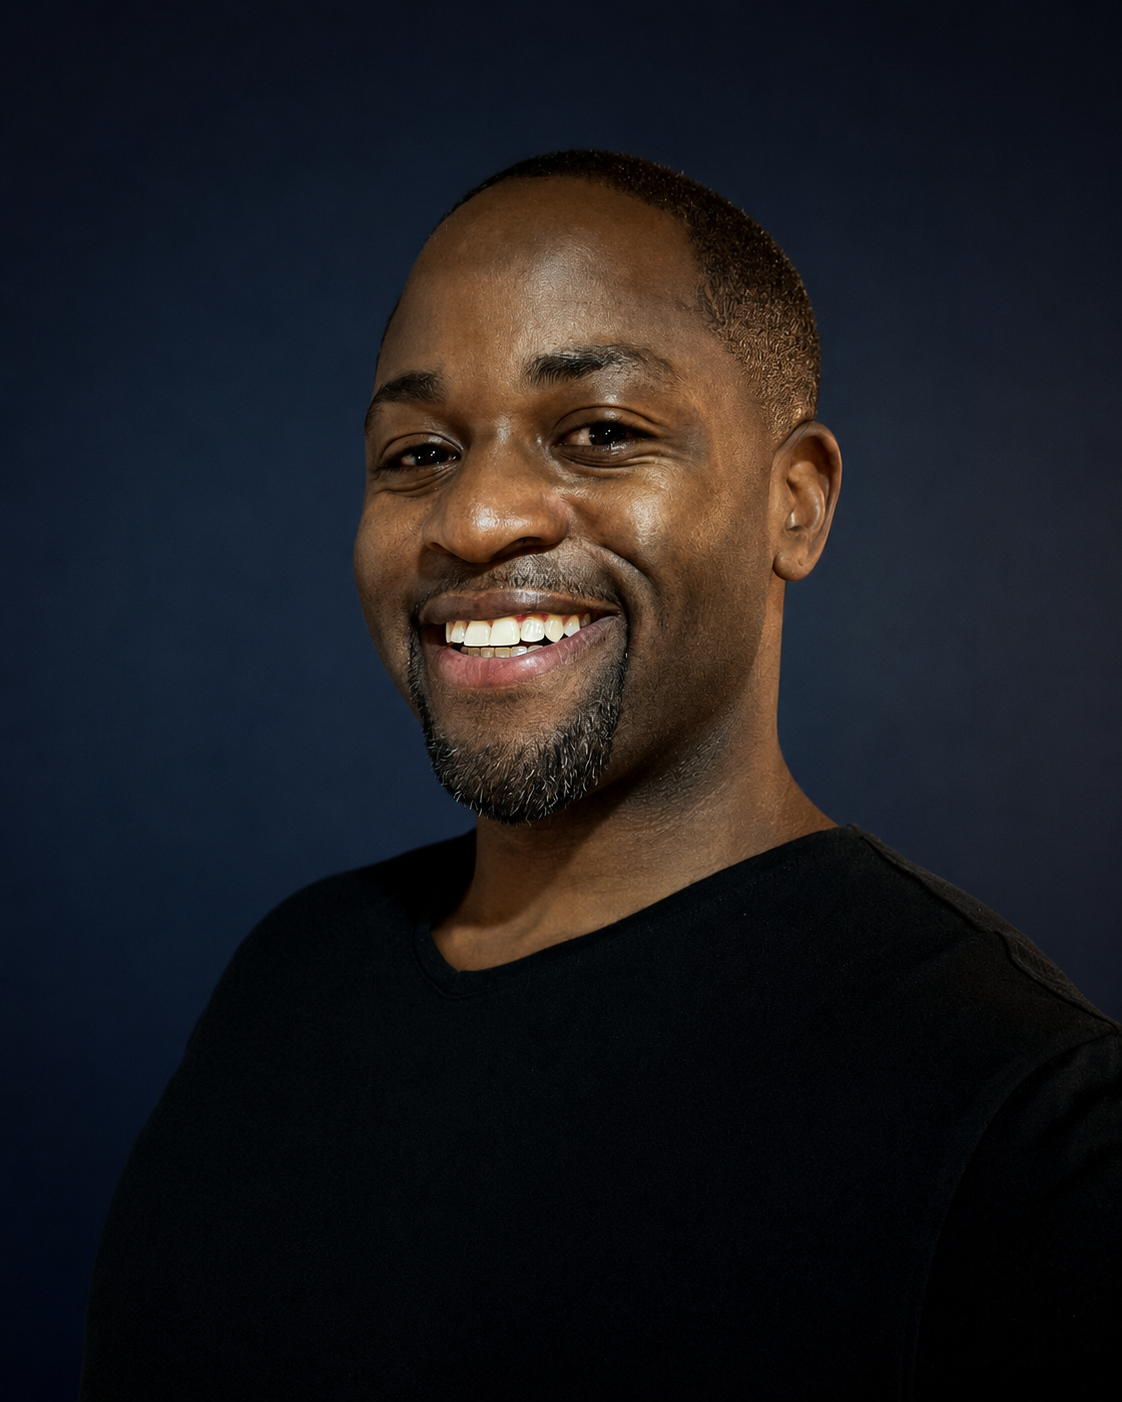
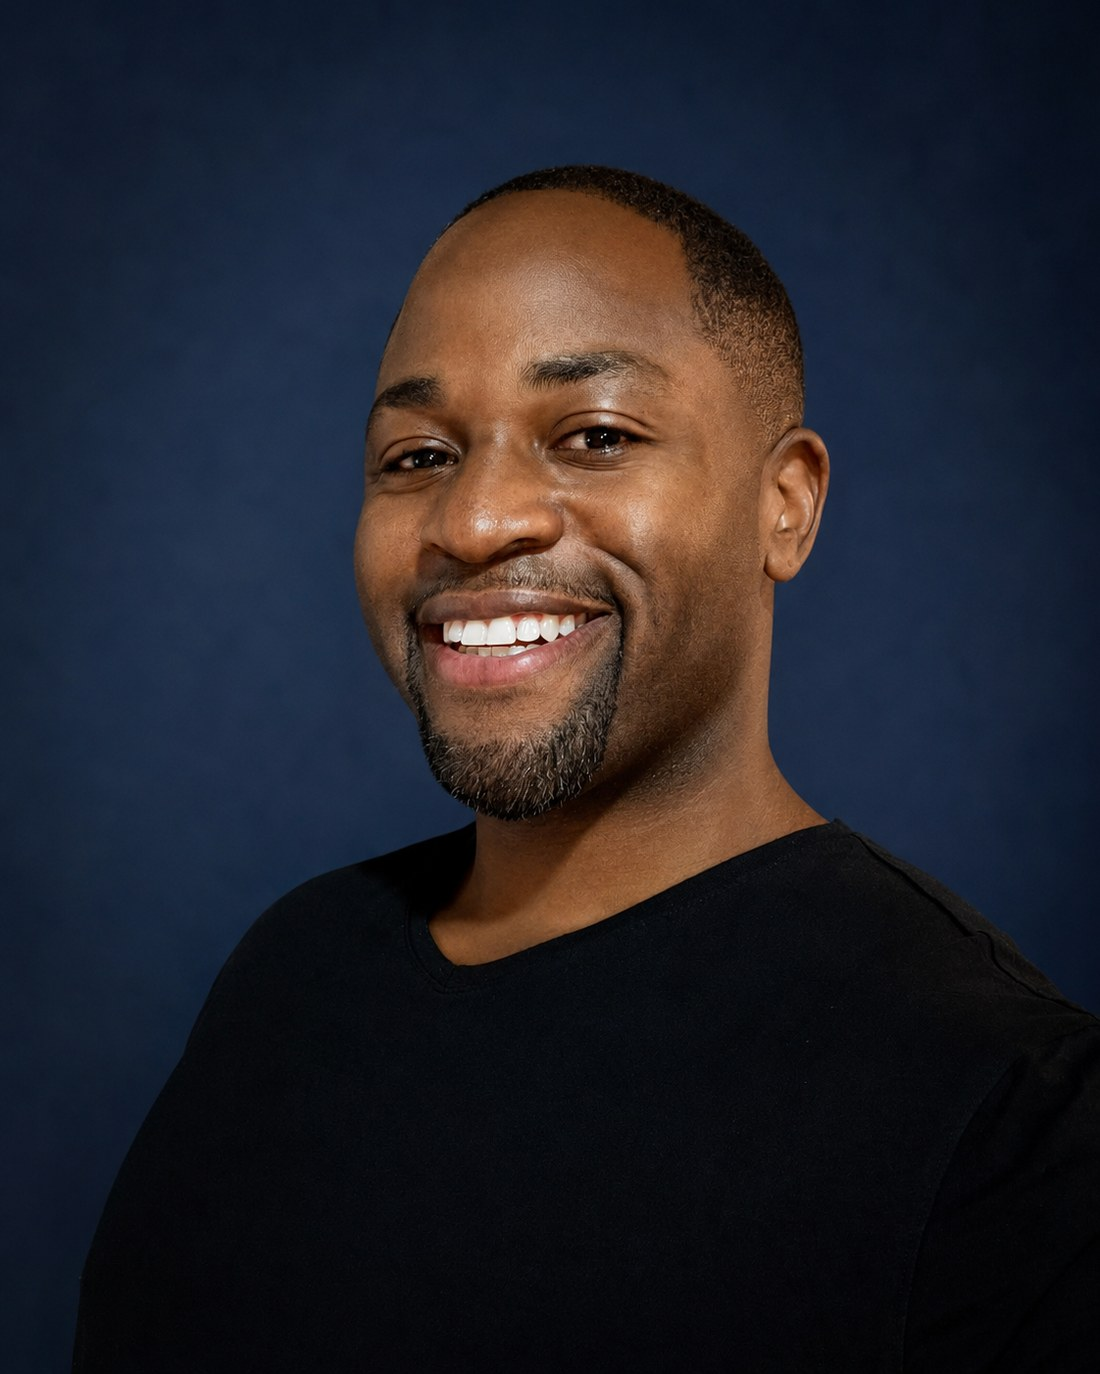
Add files via upload

diff --git a/style.css b/style.css
@@ -560,3 +560,252 @@ footer { margin-top: 80px; background: var(--navy-deep); color: rgba(255,255,255
   .home-kicker { font-size: .62rem; line-height:1.45; }
   .cred-strip span { width:100%; text-align:center; }
 }
+
+
+
+/* =========================================================
+   Homepage V2.2 Visual Refinement Patch
+   - Improves contrast and mobile readability
+   - Adds Mindelo composite section image
+   - Prevents decorative elements from interfering with text
+   - Fixes proof/project image card layout
+   - Strengthens Resource Hub CTA contrast
+   ========================================================= */
+
+:root {
+  --gold: #9a7417;
+  --gold-strong: #7f5c0a;
+  --navy: #16315f;
+  --navy-deep: #081a33;
+}
+
+.home-v2 .home-hero {
+  isolation: isolate;
+}
+
+/* Keep decorative orbs subtle and behind content. */
+.home-bg-orb {
+  opacity: .18;
+  z-index: 0;
+}
+
+.home-hero-grid,
+.home-split,
+.home-centered-heading,
+.resource-mockup,
+.proof-grid,
+.initiative-grid,
+.collaboration-card {
+  position: relative;
+  z-index: 2;
+}
+
+/* Stronger readable accents on pale backgrounds. */
+.section-label,
+.profile-summary-topline,
+.framework-card span,
+.initiative-card span,
+.card-tag,
+.mock-badge {
+  color: var(--gold-strong);
+}
+
+.btn-ghost {
+  border-color: var(--gold-strong);
+  color: var(--gold-strong);
+  background: rgba(255,255,255,.2);
+}
+
+.btn-ghost:hover {
+  background: var(--gold-pale);
+  color: var(--navy-deep);
+}
+
+/* Hero portrait: keep it premium and controlled. */
+.portrait-card {
+  width: min(385px, 92vw);
+  aspect-ratio: 4 / 5;
+  border-radius: 28px;
+}
+
+.portrait-card img {
+  width: 100%;
+  height: 100%;
+  object-fit: cover;
+  object-position: center 42%;
+}
+
+/* Mindelo pilot image section. */
+.pilot-split {
+  align-items: center;
+}
+
+.pilot-image-card {
+  margin: 0;
+  background: var(--white);
+  border: 1px solid var(--rule);
+  border-radius: 26px;
+  overflow: hidden;
+  box-shadow: var(--shadow);
+}
+
+.pilot-image-card img {
+  width: 100%;
+  aspect-ratio: 16 / 9;
+  height: auto;
+  object-fit: cover;
+  display: block;
+}
+
+.pilot-image-card figcaption {
+  padding: 12px 16px 14px;
+  font-size: .82rem;
+  line-height: 1.45;
+  color: var(--mid);
+  background: rgba(250,250,247,.96);
+  border-top: 1px solid var(--rule);
+}
+
+/* Existing pilot-card retained for compatibility, but no longer used on homepage. */
+.pilot-card {
+  min-height: 260px;
+}
+
+/* Resource Hub section: improve secondary CTA visibility. */
+.resource-feature .btn-primary {
+  background: var(--gold-pale);
+  color: var(--navy-deep);
+  border: 1px solid var(--gold-pale);
+}
+
+.resource-feature .btn-primary:hover {
+  background: #fff;
+  color: var(--navy-deep);
+}
+
+.btn-resource-secondary {
+  display: inline-flex;
+  align-items: center;
+  justify-content: center;
+  gap: 8px;
+  padding: 12px 22px;
+  border-radius: 8px;
+  font-size: .82rem;
+  text-transform: uppercase;
+  letter-spacing: .06em;
+  font-weight: 500;
+  transition: .2s ease;
+  background: rgba(255,255,255,.1);
+  color: #fff;
+  border: 1.5px solid rgba(255,255,255,.72);
+}
+
+.btn-resource-secondary:hover {
+  background: #fff;
+  border-color: #fff;
+  color: var(--navy-deep);
+}
+
+/* Proof cards: prevent image/text collision and improve responsive layout. */
+.proof-grid {
+  grid-template-columns: repeat(auto-fit, minmax(220px, 1fr));
+  align-items: stretch;
+}
+
+.proof-card {
+  min-height: auto;
+}
+
+.proof-card-image {
+  display: flex;
+  flex-direction: column;
+  padding: 0;
+  overflow: hidden;
+}
+
+.proof-card-image img {
+  width: 100%;
+  height: 165px;
+  object-fit: cover;
+  flex: 0 0 auto;
+  border-bottom: 1px solid var(--rule);
+}
+
+.proof-card-image div {
+  padding: 20px;
+  flex: 1 1 auto;
+}
+
+.proof-card-image h3 {
+  margin-top: 0;
+}
+
+/* Keep text blocks legible where design uses pale tones. */
+.ideas-card,
+.boundary-note,
+.profile-summary-card,
+.collaboration-card {
+  color: var(--ink);
+}
+
+.ideas-card p,
+.boundary-note,
+.profile-summary-card p,
+.collaboration-card p {
+  color: #3e4050;
+}
+
+/* Mobile refinements: reduce ornamentation and keep image hierarchy clean. */
+@media (max-width: 1080px) {
+  .home-bg-orb {
+    display: none;
+  }
+
+  .portrait-card {
+    width: min(350px, 86vw);
+  }
+
+  .pilot-image-card {
+    max-width: 720px;
+    margin-left: auto;
+    margin-right: auto;
+  }
+}
+
+@media (max-width: 720px) {
+  .home-v2 .home-hero {
+    padding-top: 58px;
+  }
+
+  .home-hero h1 {
+    font-size: clamp(2.15rem, 13vw, 3.25rem);
+  }
+
+  .home-kicker {
+    color: var(--gold-pale);
+  }
+
+  .section-label {
+    font-size: .7rem;
+    letter-spacing: .12em;
+  }
+
+  .home-actions {
+    gap: 10px;
+  }
+
+  .home-actions .btn,
+  .compact-actions .btn,
+  .btn-resource-secondary {
+    width: 100%;
+  }
+
+  .pilot-image-card figcaption {
+    font-size: .78rem;
+  }
+
+  .proof-card-image img {
+    height: 190px;
+  }
+}
+